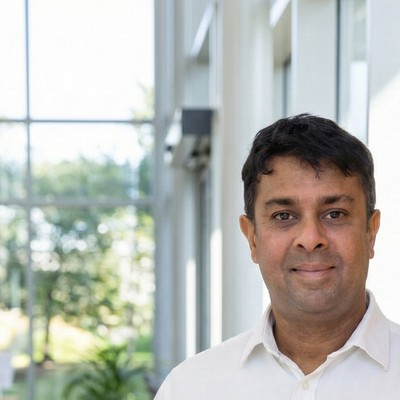
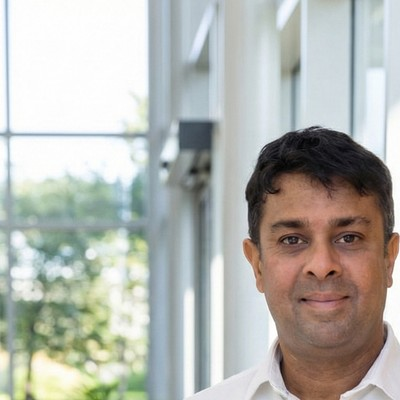
Better face crop for author photo; add Person schema to blog post graph; add chatgpt-ads topic mapping

diff --git a/src/app/blog/[slug]/page.tsx b/src/app/blog/[slug]/page.tsx
@@ -3,7 +3,7 @@ import { buildMetadata } from "@/lib/metadata";
 import { ContentPage } from "@/components/content-page";
 import { notFound } from "next/navigation";
 import { renderMarkdoc } from "@/lib/render-markdoc";
-import { articleSchema, faqSchema, breadcrumbSchema, schemaGraph } from "@/lib/schema";
+import { articleSchema, faqSchema, breadcrumbSchema, personSchema, schemaGraph } from "@/lib/schema";
 import { RelatedPosts } from "@/components/related-posts";
 
 export async function generateStaticParams() {
@@ -70,6 +70,7 @@ export default async function BlogPost({
               lastUpdated: post.lastUpdated || undefined,
               image: post.ogImage || undefined,
             }),
+            personSchema(),
             breadcrumbSchema([
               { name: "Home", url: "https://sunnypatel.co.uk" },
               { name: "Blog", url: "https://sunnypatel.co.uk/blog" },

diff --git a/src/lib/schema.ts b/src/lib/schema.ts
@@ -346,6 +346,10 @@ const BLOG_TOPICS: Record<string, TopicMapping> = {
     about: ["content-strategy"],
     mentions: ["semantic-seo", "topical-authority", "keyword-research"],
   },
+  "chatgpt-ads": {
+    about: ["ai-search-optimisation"],
+    mentions: ["llm-optimisation", "semantic-seo", "content-strategy"],
+  },
 };
 
 // =============================================================================
